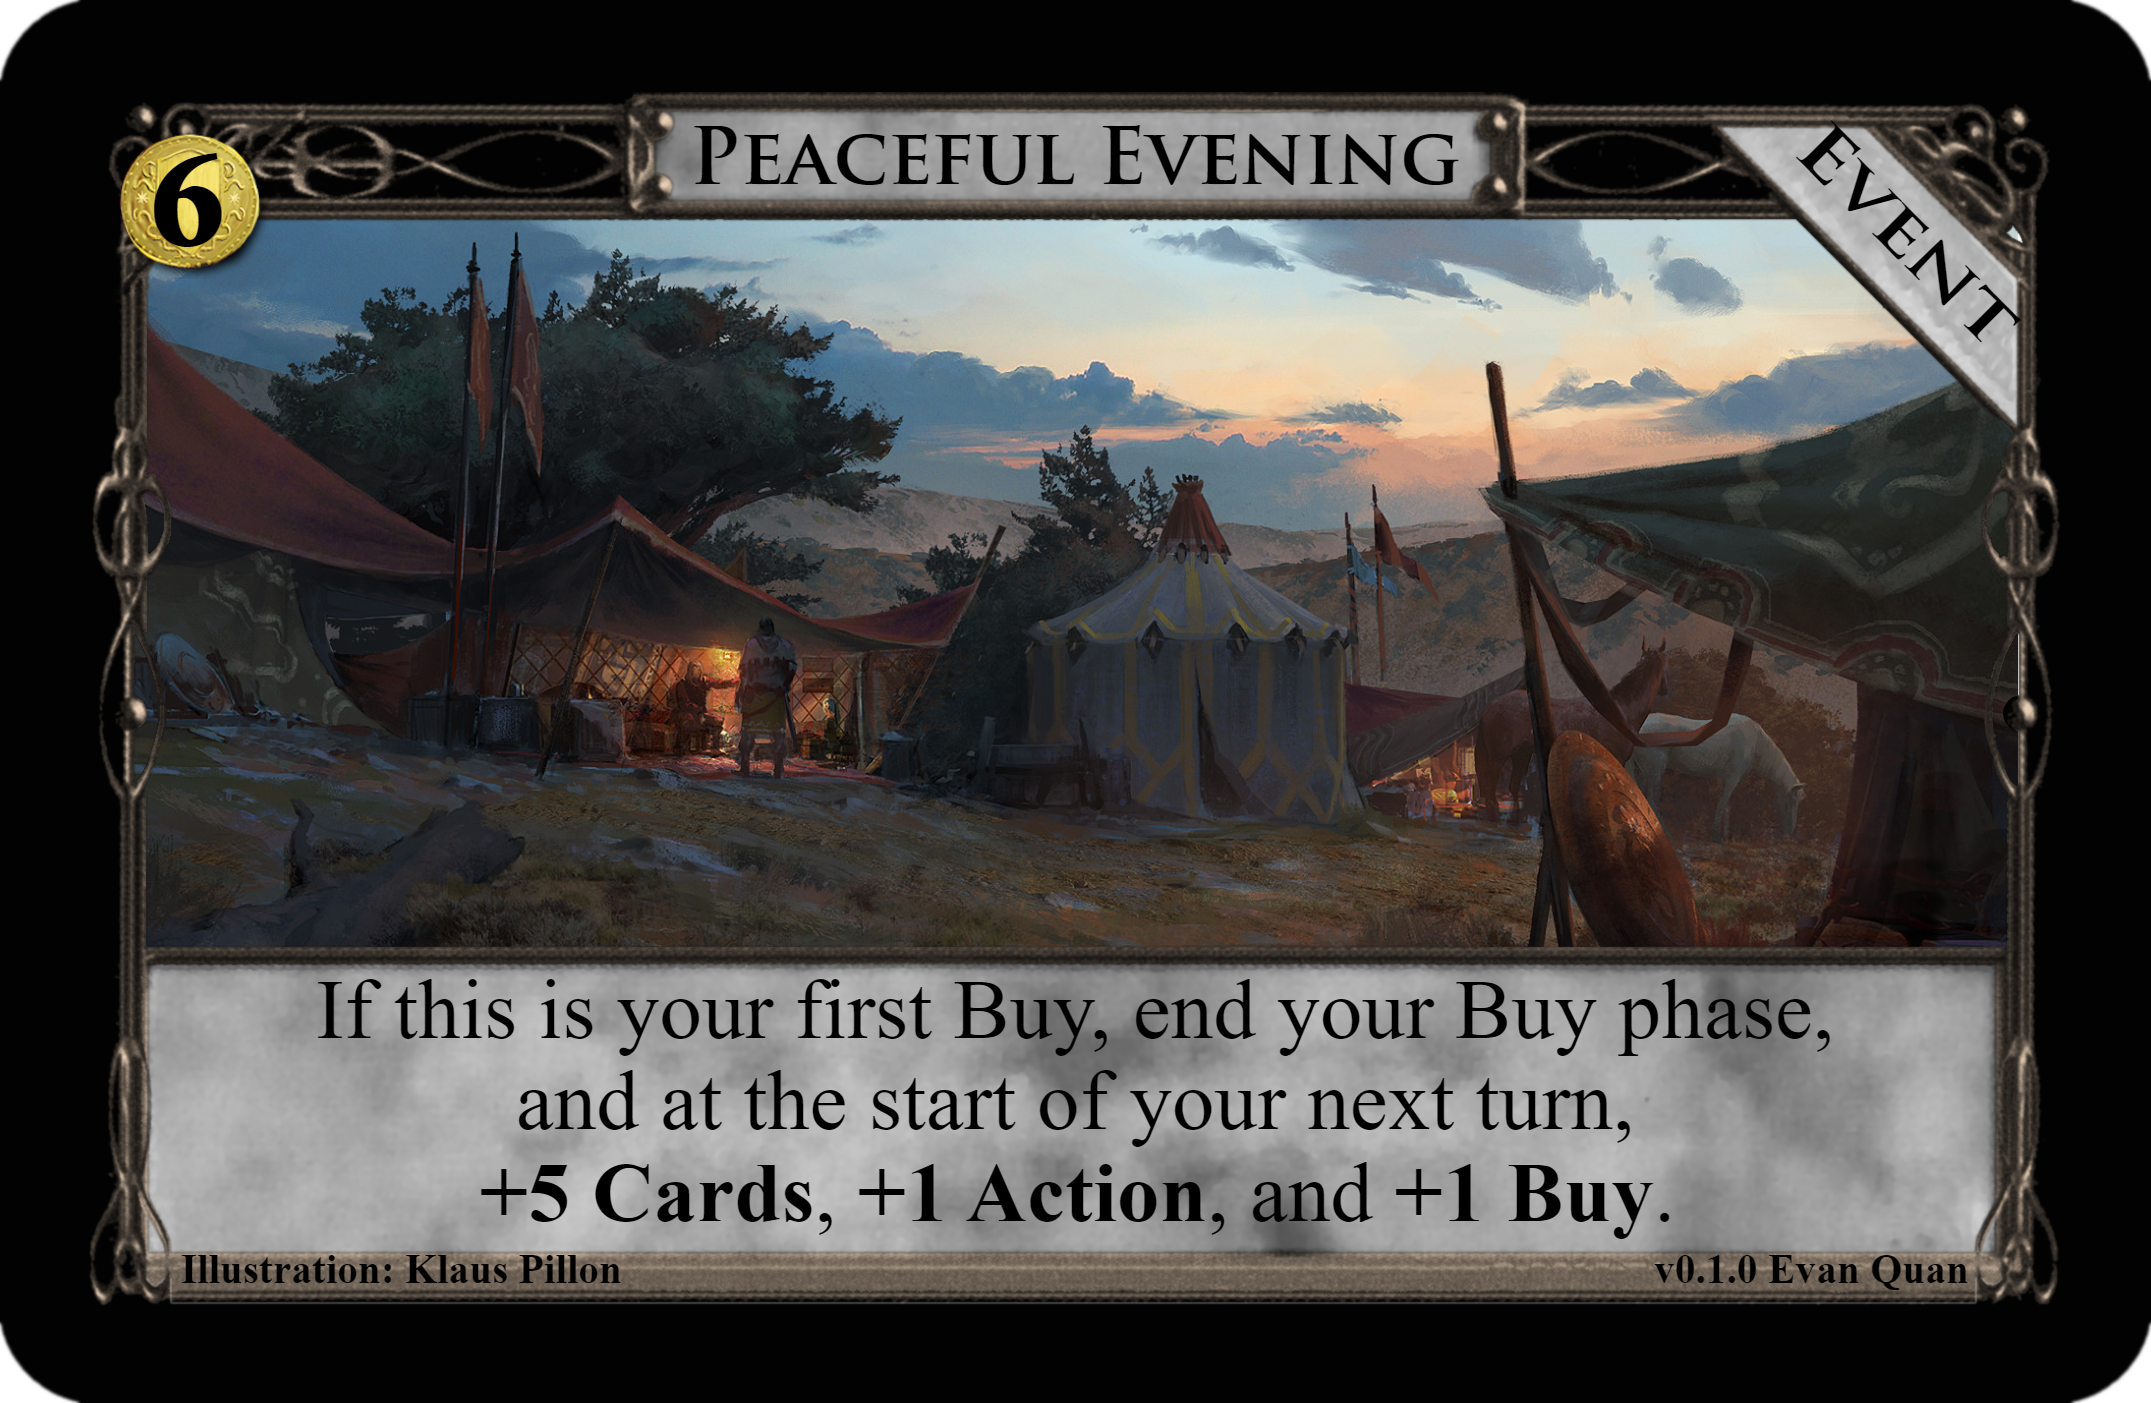
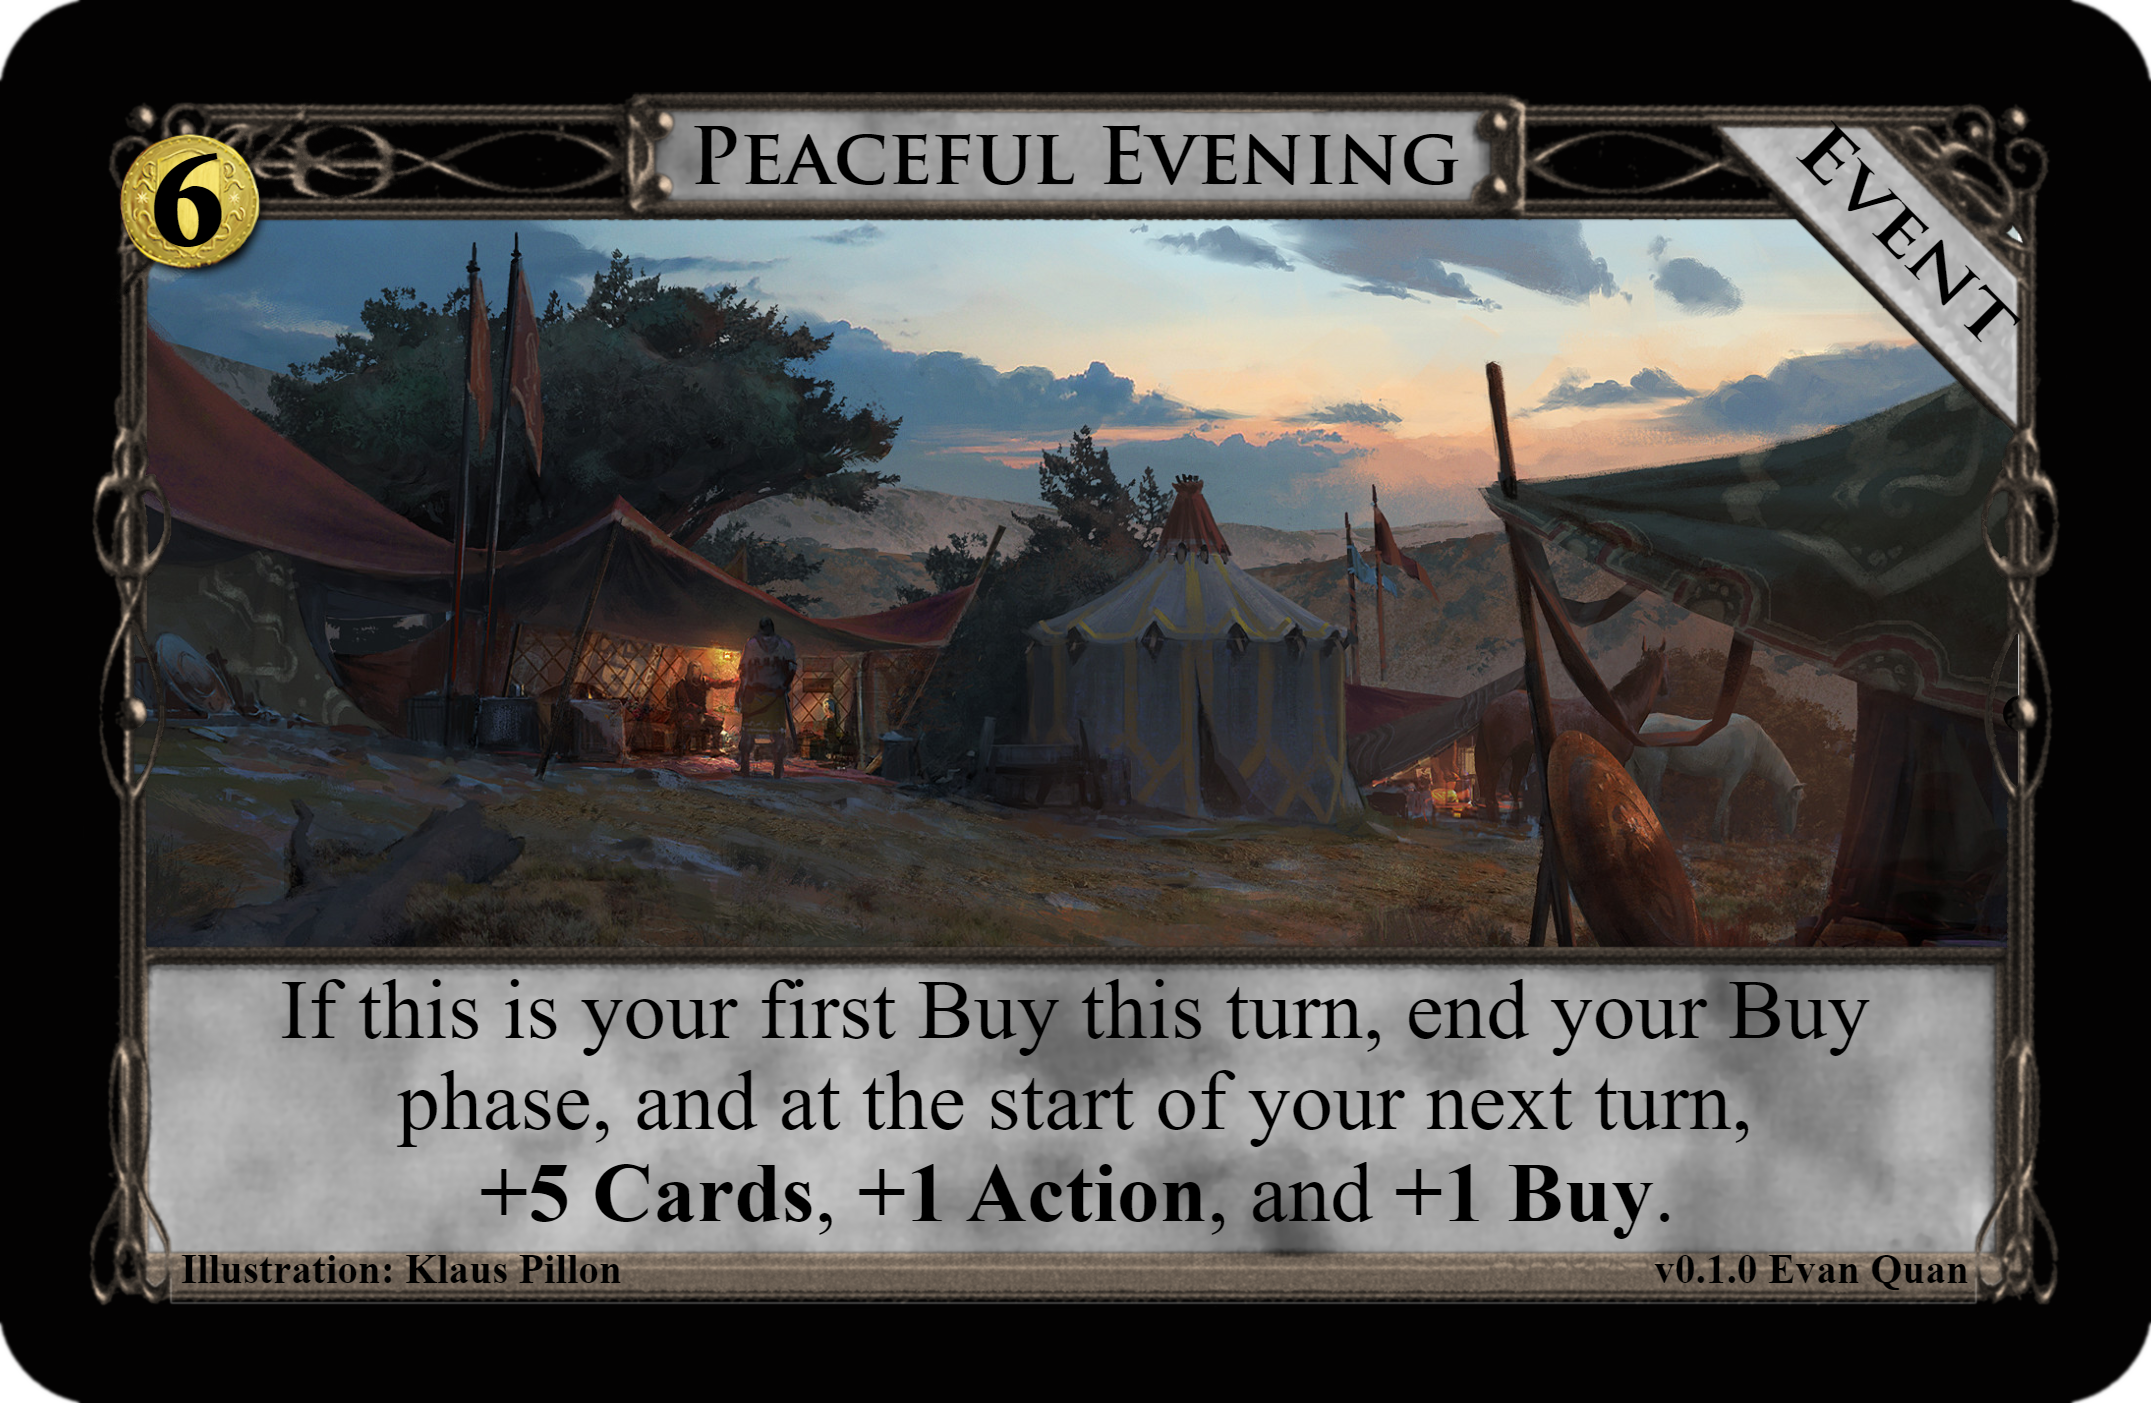
Update credits. Clarify wording.

Changed region(s): [[0.1246, 0.6743, 0.8722, 0.8275]]

diff --git a/Event/PeacefulEvening.md b/Event/PeacefulEvening.md
@@ -2,4 +2,16 @@
 
 ![v0.1.0][^v0.1.0]
 
+---
+[Card][^Card]
+
+[Illustrator][^Illustrator]
+
+[Illustration][^Illustration]
+
+---
+
 [^v0.1.0]: /Event/Images/Peaceful_Evening_v0.1.0.png
+[^Card]: https://shardofhonor.github.io/dominion-card-generator/?title=Peaceful%20Evening&description=If%20this%20is%20your%20first%20Buy%20this%20turn%2C%20end%20your%20Buy%20phase%2C%20and%20at%20the%20start%20of%20your%20next%20turn%2C%0A%2B5%20Cards%2C%20%2B1%20Action%2C%20and%20%2B1%20Buy.&type=Event&credit=Illustration%3A%20Klaus%20Pillon&creator=v0.1.0%20Evan%20Quan&price=%246&preview=&type2=&color2split=1&boldkeys=&picture-x=0&picture-y=0.47&picture-zoom=1&picture=https%3A%2F%2Fcdna.artstation.com%2Fp%2Fassets%2Fimages%2Fimages%2F004%2F169%2F592%2Flarge%2Fklaus-pillon-camp-dusk-savannah-final.jpg%3F1481015877&expansion=&custom-icon=&color0=0&color1=0&size=1
+[^Illustrator]: https://www.artstation.com/klauspillon
+[^Illustration]: https://www.artstation.com/artwork/3ro0g
